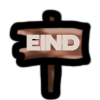
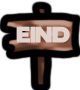
Updated sprites for player and end sign

diff --git a/src/Preloader.ts b/src/Preloader.ts
@@ -37,10 +37,10 @@ module MyGame {
 			this.load.image('longlegs', 'assets/longlegsplaceholder.png')
 
 			this.load.image('uiBase', 'assets/uiBase.png')
-			this.load.image('pedestal', 'assets/pedestal.png')
+			this.load.image('endSign', 'assets/endSign.png')
 
 			//Load Player
-			this.load.spritesheet('dude', 'assets/spritesheetV3.png', 64, 64, 15);
+			this.load.spritesheet('dude', 'assets/playerSheet.png', 64, 64, 16);
 
 			// Load level completion
 			this.load.image('levelCompleteBackground', 'assets/startBackground.jpg')

diff --git a/src/Level1.ts b/src/Level1.ts
@@ -118,7 +118,7 @@ module MyGame {
 			this.longlegs1 = new LongLegs(this.game, 4500, 200);
 
 			// Creation of End-tile
-			this.endTile = new EndTile(this.game, 4750, h-150);
+			this.endTile = new EndTile(this.game, 4750, h-142);
 
 			// Creation on UI
 			let ui:Phaser.Sprite = this.add.sprite(this.game.width, 0, 'uiBase');

diff --git a/src/EndTile.ts b/src/EndTile.ts
@@ -4,7 +4,7 @@ module MyGame {
 
         constructor(game: Phaser.Game, x: number, y: number) {
 
-            super(game, x, y, 'pedestal', 0);
+            super(game, x, y, 'endSign', 0);
 
             this.game.physics.arcade.enableBody(this)
             this.body.collideWorldBounds=true;
